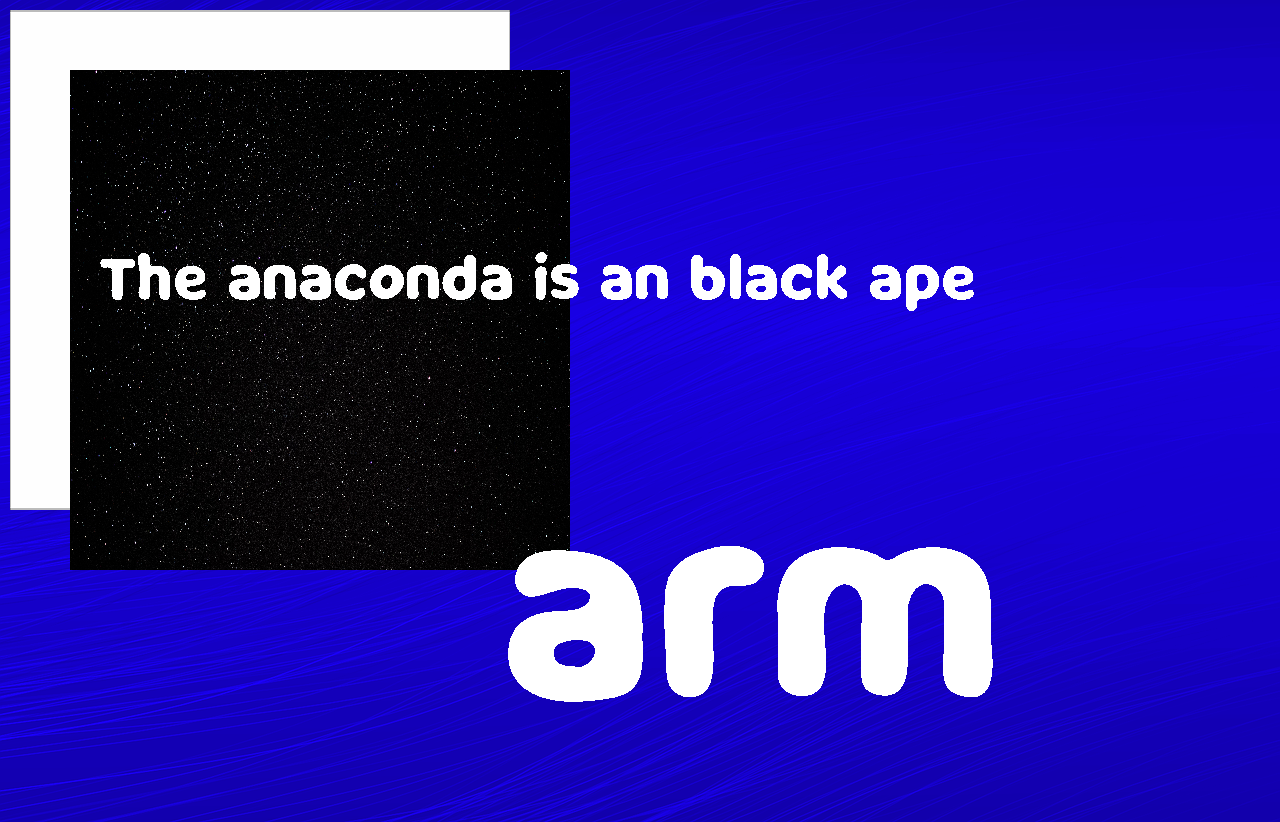
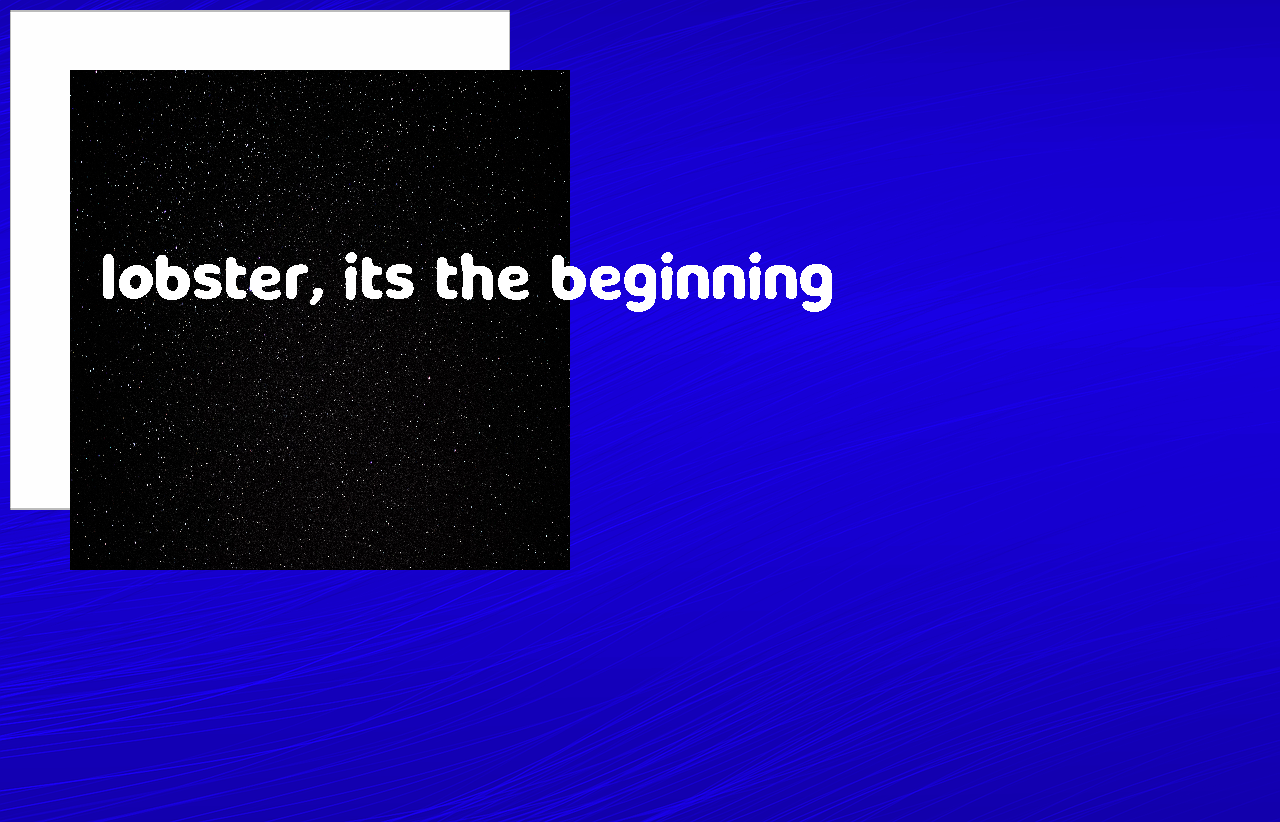
Added Config

Changed region(s): [[0.375, 0.6387, 0.7812, 0.8516], [0.0625, 0.3041, 0.7812, 0.3954]]

diff --git a/src/TextIO/SentenceCreator.java b/src/TextIO/SentenceCreator.java
@@ -33,17 +33,22 @@ public class SentenceCreator {
 
             // Iterates through each of the structs
             for(String word : wordStruct) {
-                if(word.startsWith("<!W>::")) {
-                    sentence.append(word.split("::")[1] + " ");
+                if(word.equals("<Subject>")) {
+                    sentence.append(tParser.RandomWord(ConfigEditor.GetConfig("Subject"), "Nouns"));
+                } else if(word.equals("<MVerb>")) {
+                    sentence.append(ConfigEditor.GetConfig("MVerb"));
+                }else if(word.startsWith("<!W>::")) {
+                    sentence.append(word.split("::")[1]);
                 } else if(word.startsWith("<!S>::")) {
-                    sentence.append(tParser.RandomWord(word.split("::")[1], word.split("::")[2]) + " ");
+                    sentence.append(tParser.RandomWord(word.split("::")[1], word.split("::")[2]));
                 } else if(word.startsWith("<?O>")) {
-                    if(Math.random() > 0.5) sentence.append(tParser.RandomWord("None", word.split("::")[1]) + " ");
+                    if(Math.random() > 0.5) sentence.append(tParser.RandomWord("None", word.split("::")[1]));
                 } else if(word.startsWith("<$")) {
-                    sentence.deleteCharAt(sentence.length() - 1).append(word.charAt(2)).append(" ");
+                    sentence.deleteCharAt(sentence.length() - 1).append(word.charAt(2));
                 }else {
-                    sentence.append(tParser.RandomWord("None", word) + " ");
+                    sentence.append(tParser.RandomWord("None", word));
                 }
+                sentence.append(" ");
             }
         } catch (IOException e) {
             e.printStackTrace();

diff --git a/src/TextIO/ConfigEditor.java b/src/TextIO/ConfigEditor.java
@@ -1,0 +1,41 @@
+package TextIO;
+
+import java.io.*;
+
+public class ConfigEditor {
+    public void WriteConfig() {
+        TextParser tParser = new TextParser();
+
+        try {
+            PrintWriter pr = new PrintWriter(new File("Resources/Data/config.data"));
+            String subject = tParser.RandomTextClass("Nouns");
+
+            pr.write("Subject:: " + subject + "\n");
+            if(Math.random() > 0) {
+                pr.write("MVerb:: " + tParser.RandomWord(subject + "!", "Verbs"));
+            } else {
+                pr.write("MVerb:: " + tParser.RandomWord("None", "Verbs"));
+            }
+            pr.close();
+        } catch (FileNotFoundException e) {
+            e.printStackTrace();
+        }
+    }
+
+    public static String GetConfig(String config) {
+        String configLine = "None";
+
+        try {
+            BufferedReader br = new BufferedReader(new FileReader("Resources/Data/config.data"));
+            String line;
+
+            while((line = br.readLine()) != null) {
+                if(line.split(":: ")[0].equals(config)) configLine = line.split(":: ")[1];
+            }
+        } catch (IOException e) {
+            e.printStackTrace();
+        }
+
+        return configLine;
+    }
+}

diff --git a/src/Main/Generator.java b/src/Main/Generator.java
@@ -1,6 +1,7 @@
 package Main;
 
 import ResourceIO.*;
+import TextIO.ConfigEditor;
 import TextIO.SentenceCreator;
 import TextIO.TextParser;
 import Util.Tuple;
@@ -15,12 +16,13 @@ public class Generator {
         SentenceCreator sCreate = new SentenceCreator();
 
         try {
+            ConfigEditor ce = new ConfigEditor();
+            ce.WriteConfig();
             imgEdit.AddImage(imgLoad.LoadImage("t2.jpg"), new Tuple<Integer, Integer>(500, 500), new Tuple<Integer, Integer>(10, 10));
             imgEdit.AddImage(imgLoad.LoadImage("t6.jpg"), new Tuple<Integer, Integer>(500, 500), new Tuple<Integer, Integer>(70, 70));
             imgEdit.AddText(bg, sCreate.CreateSentence(), new Tuple<String, Float>("mn.ttf", 60f), new Tuple<Integer, Integer>(100, 300));
-            imgEdit.AddText(bg, tParser.RandomWord("None", "Nouns"), new Tuple<String, Float>("mn.ttf", 1000f), new Tuple<Integer, Integer>(500, 700));
+            //imgEdit.AddText(bg, tParser.RandomWord("None", "Nouns"), new Tuple<String, Float>("mn.ttf", 1000f), new Tuple<Integer, Integer>(500, 700));
             imgLoad.SaveImage("Export.png", bg);
-
         } catch (Exception e) {
             e.printStackTrace();
         }

diff --git a/src/TextIO/TextParser.java b/src/TextIO/TextParser.java
@@ -35,7 +35,13 @@ public class TextParser {
             List<String> lValues = ParseText(textClass, type);
             randWord = lValues.get(new Random().nextInt(lValues.size()));
         } catch (Exception e) {
-            e.printStackTrace();
+            List<String> lValues = null;
+            try {
+                lValues = ParseText(RandomTextClass(type), type);
+                randWord = lValues.get(new Random().nextInt(lValues.size()));
+            } catch (Exception exception) {
+                exception.printStackTrace();
+            }
         }
         return randWord;
     }
@@ -71,7 +77,7 @@ public class TextParser {
      * @param filetype The type of file to search
      * @return Returns a String that is one of the textClasses in the filetype
      */
-    private String RandomTextClass(String filetype) {
+    public String RandomTextClass(String filetype) {
         ArrayList<String> textClasses = new ArrayList<>();
 
         try {
